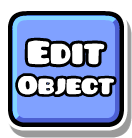
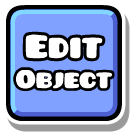
feat(editor): add Geometry Dash deselect action

diff --git a/src/GeometryDashPlace.Web/Components/Editor/DeselectButton.razor.css b/src/GeometryDashPlace.Web/Components/Editor/DeselectButton.razor.css
@@ -1,0 +1,54 @@
+.deselect-area {
+    position: fixed;
+    z-index: 7;
+    top: calc((100% - var(--toolbar-height)) / 2);
+    right: calc(clamp(12px, 1.6vw, 30px) + clamp(68px, 6vw, 94px) + clamp(8px, 1vw, 14px));
+    transform: translateY(-50%);
+}
+
+.deselect-button {
+    appearance: none;
+    box-sizing: border-box;
+    display: block;
+    width: clamp(68px, 6vw, 94px);
+    aspect-ratio: 1;
+    padding: 0;
+    border: 0;
+    background: transparent;
+    filter: drop-shadow(0 5px 0 rgb(0 0 0 / 58%));
+    cursor: pointer;
+    transition: transform 70ms ease, filter 70ms ease;
+}
+
+.deselect-button:hover {
+    transform: scale(1.06);
+    filter: brightness(1.12) drop-shadow(0 5px 0 rgb(0 0 0 / 58%));
+}
+
+.deselect-button:active {
+    transform: scale(0.94);
+}
+
+.deselect-button:focus-visible {
+    outline: 3px solid #fff36a;
+    outline-offset: 3px;
+}
+
+.deselect-button img {
+    display: block;
+    width: 100%;
+    height: 100%;
+    object-fit: contain;
+    pointer-events: none;
+}
+
+@media (max-width: 760px) {
+    .deselect-area {
+        right: 60px;
+    }
+
+    .deselect-button {
+        width: 44px;
+        filter: drop-shadow(0 3px 0 rgb(0 0 0 / 58%));
+    }
+}
